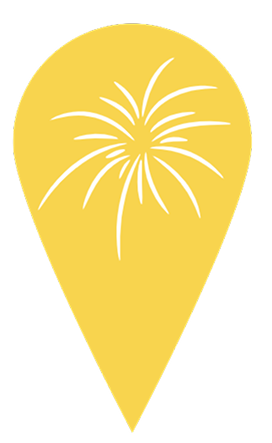
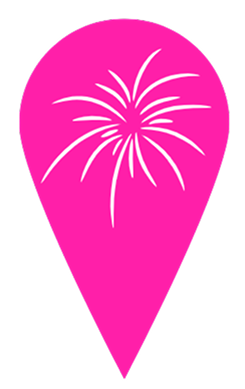
feat 1. 클래스터 적용 수치 변경 2. 사용자가 맵 클릭했을 시 클래스터 적용 기능 3. 사진 변경

diff --git a/src/main/Local-React/src/components/KakaoMap.jsx b/src/main/Local-React/src/components/KakaoMap.jsx
@@ -68,7 +68,7 @@ function KakaoMap({ viewType }) {       // 함수 시작
                         const clusterer = new window.kakao.maps.MarkerClusterer({
                             map: map,           // 마커들을 클러스터로 관리하고 표시할 지도 객체
                             averageCenter: true, // 클러스터에 포함된 마커들의 평균 위치를 클러스터 마커 위치로 설정
-                            minLevel: 5,        // 클러스터 할 최소 지도 레벨
+                            minLevel: 2,        // 클러스터 할 최소 지도 레벨
                             disableClickZoom: true // 클러스터 마커를 클릭했을 때 지도가 자동 확대되지 않도록 설정
                         });
                         // 클러스터 마커를 클릭했을 때 해당 클러스터 중심을 기준으로 지도를 1레벨씩 확대합니다
@@ -159,7 +159,7 @@ function KakaoMap({ viewType }) {       // 함수 시작
                         maker.setMap(map);
 
                         let clickMaker = null;    // 클릭 마커 선언(처음은 없음)
-                        window.kakao.maps.event.addListener(map, 'click', async (mouseEvent) => {
+                        window.kakao.maps.event.addListener(map, 'click', async (mouseEvent) => {   // 사용자가 클릭했을 때 적용되는 함수
                             const lat = mouseEvent.latLng.getLat(); // 클릭한 위도
                             const lng = mouseEvent.latLng.getLng(); // 클릭한 경도
 
@@ -207,6 +207,7 @@ function KakaoMap({ viewType }) {       // 함수 시작
                                 });
                                 marker.setMap(map);
                                 contentMarkers.push(marker);
+                                clusterer.addMarker(marker);    // 클러스터 적용
 
                                 const isAuthable = authContents.some(auth =>
                                     (auth.contentsId && auth.contentsId === content.contentsId) ||
@@ -234,7 +235,7 @@ function KakaoMap({ viewType }) {       // 함수 시작
                                     infowindows.forEach(iw => iw.close());
                                     infowindow.open(map, marker);
 
-                                    setTimeout(() => {      // 클릭 이벤트 안 마커 클릭 이벤트
+                                    setTimeout(() => {      // 클릭 이벤트 안 마커 클릭(인증) 이벤트
                                         const btn = document.getElementById(`auth-btn-${id}`);
                                         if (btn) {
                                             btn.onclick = async () => {
@@ -251,8 +252,8 @@ function KakaoMap({ viewType }) {       // 함수 시작
                             console.log("안심등급 세부내용", data);
                             console.log("1km내 있는 contents,shop", contents);
                         });
-                    },
-                    () => {
+                    },      // GPS 성공 함수 끝
+                    () => { // GPS 실패 함수 시작
                         const lat = 35.1798;
                         const lng = 128.1076;
 
@@ -320,13 +321,13 @@ function KakaoMap({ viewType }) {       // 함수 시작
                             const data = await response.json();
                             console.log("결과", data);
                             console.log("1km내 있는 contents,shop", contents);
-                        });
-                    }
-                );
-            });
-        },
+                        });     // 마우스 클릭 이벤트 끝
+                    }   // GPS 실패 함수 끝
+                );      // GPS 성공/실패 함수 끝
+            });         // 맵 띄우는 함수 끝
+        };              // spript 끝
             document.head.appendChild(script);  // <head>태그에 <script>태그를 넣는다
-    }, [viewType]);
+    }, [viewType]);     // useEffect 함수 끝
 
     return <div ref={mapRef} style={{ width: "100%", height: "100%", position: "absolute" }} />;
 }
